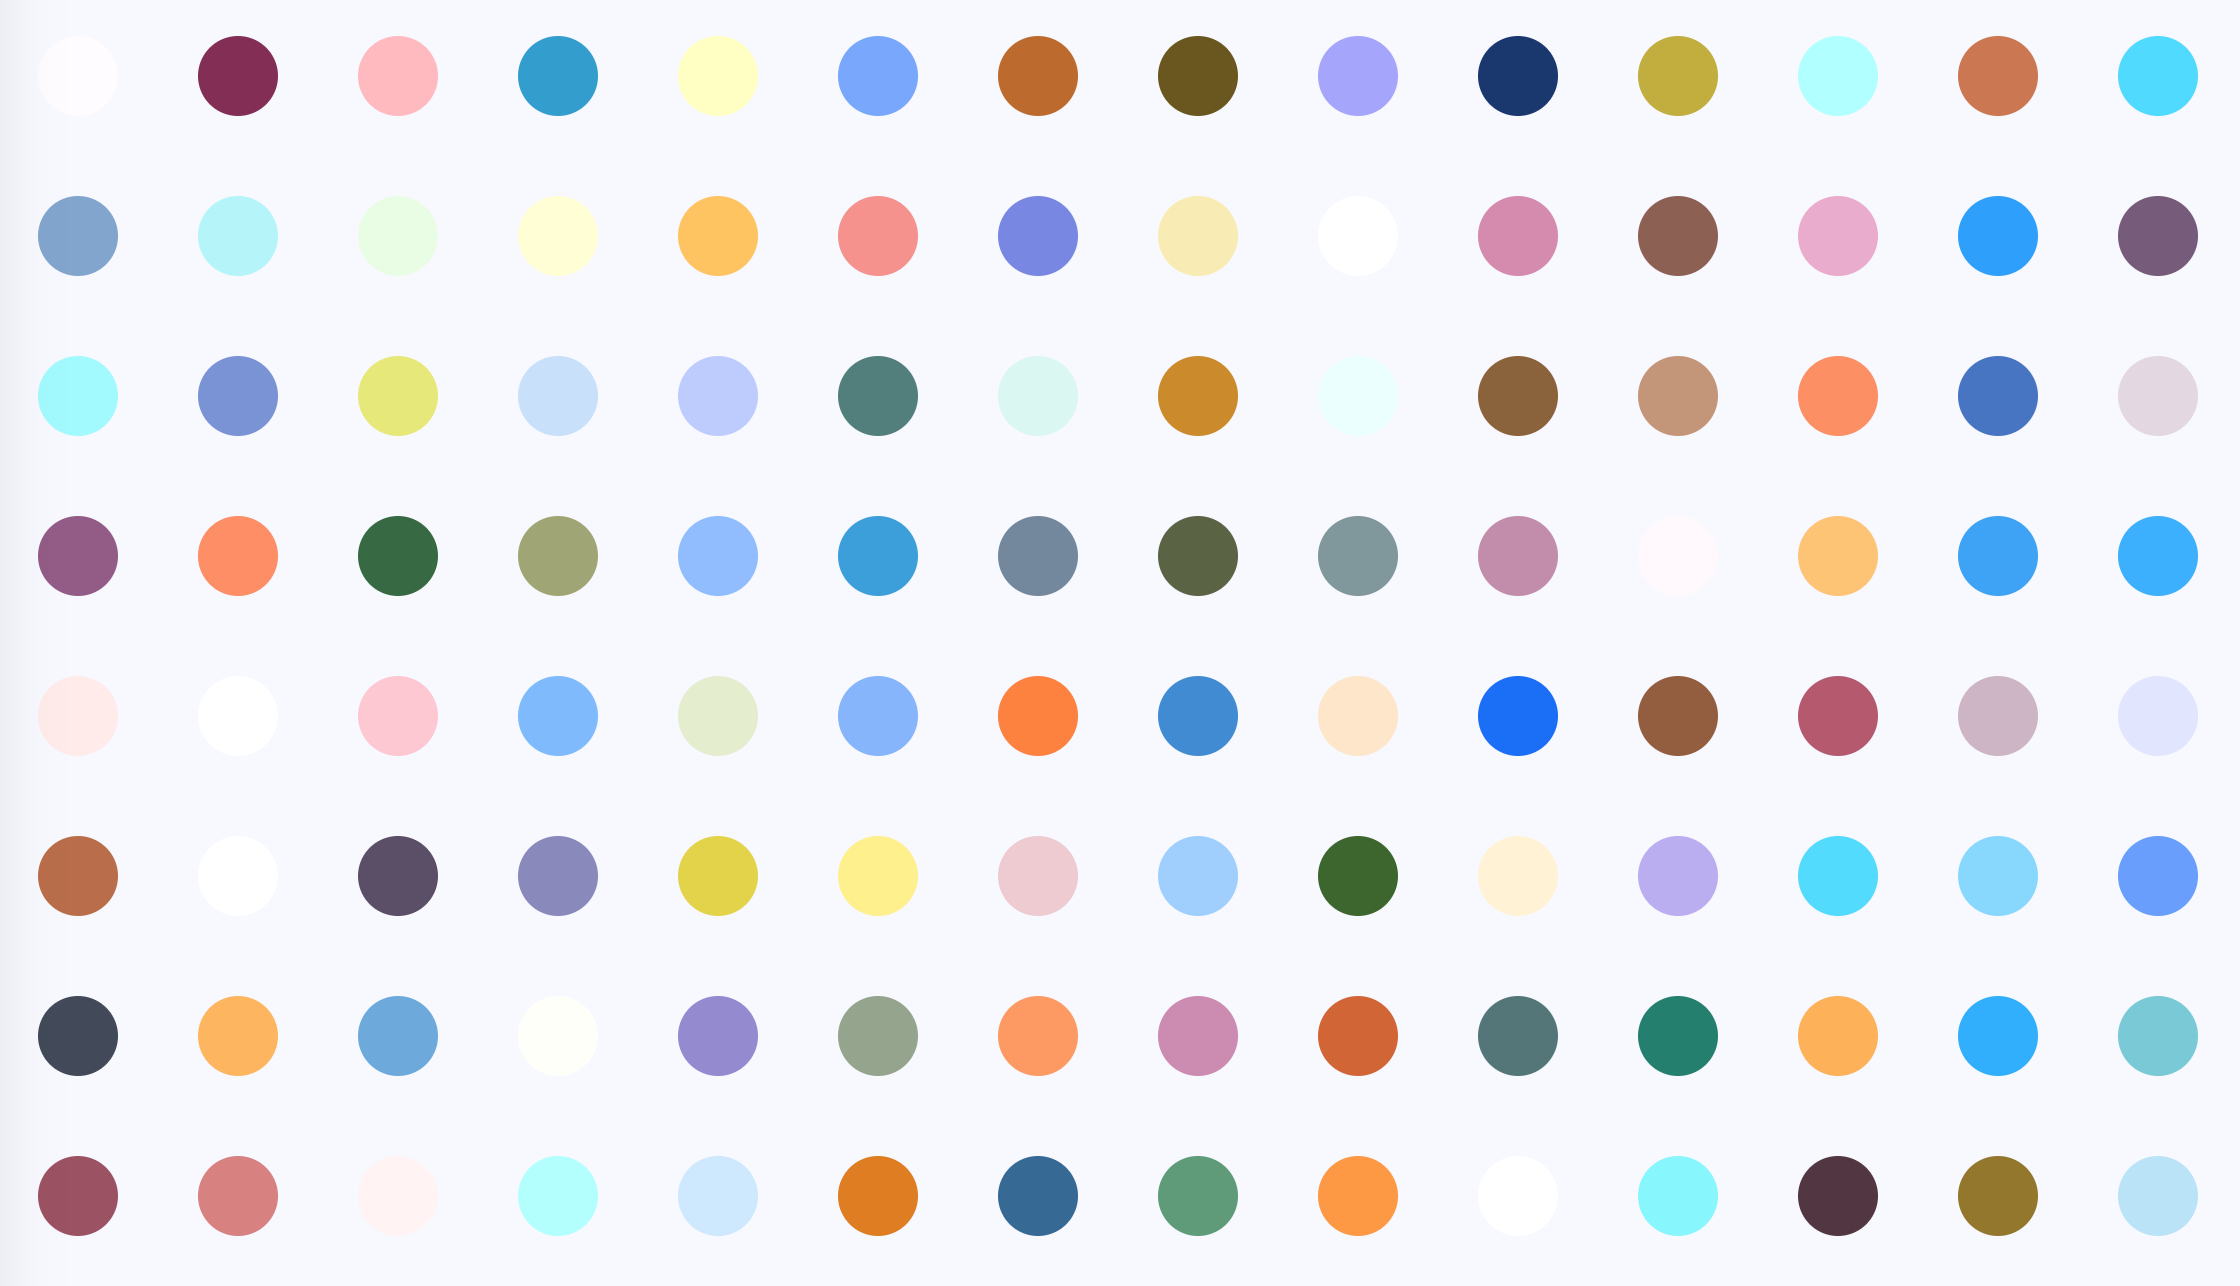
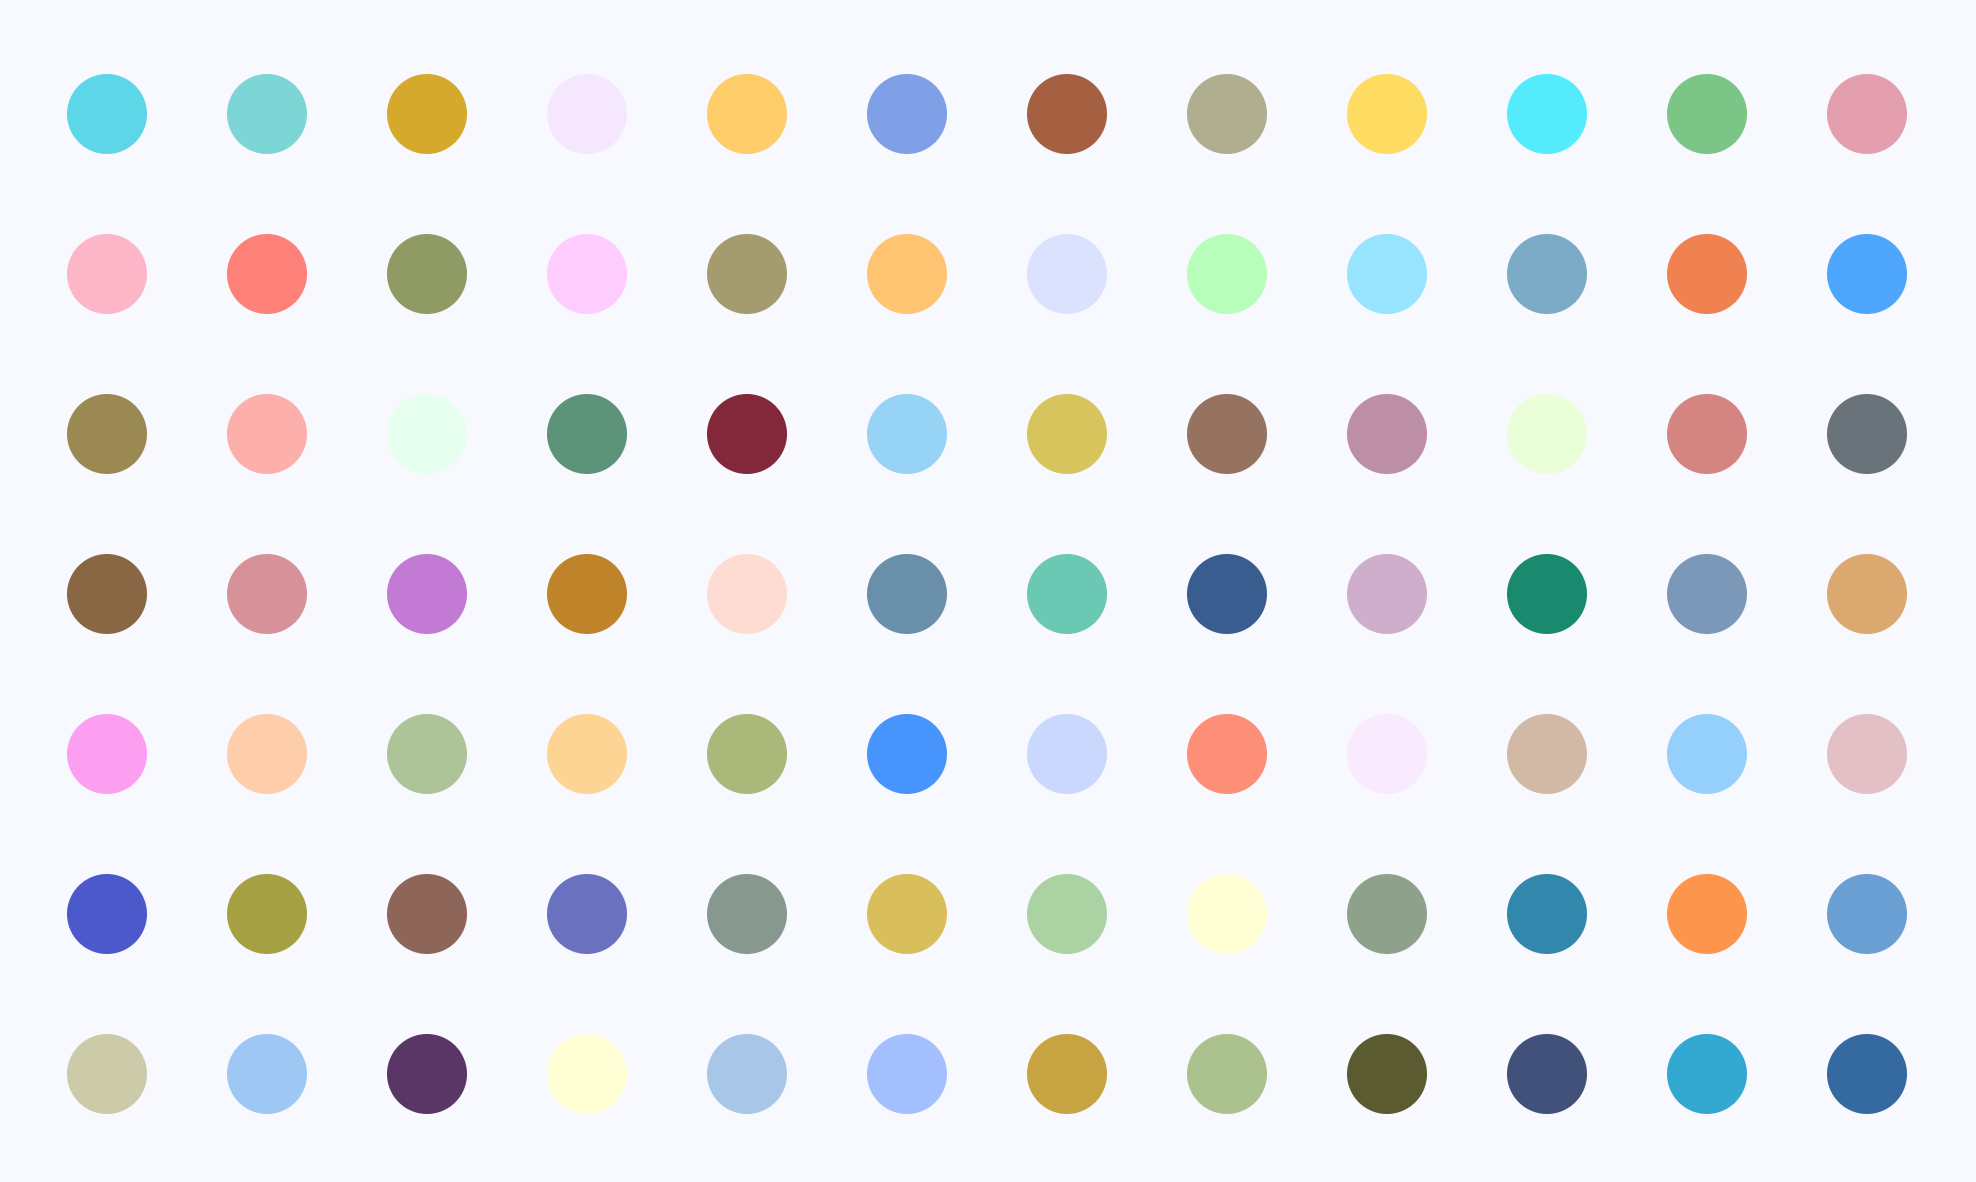
Adjust colors; add title

diff --git a/main.js b/main.js
@@ -13,10 +13,10 @@ function load() {
   for (let i = 0; i < 1000; i++) {
     let spot = document.createElement('div');
     spot.className = 'spot';
-    let red = rand(0, 255);
-    let blue = rand(0, 255);
-    let green = constrain(Math.floor((red + blue) / 2) + rand(0, 100), 0, 255); //from x/3 + y/3 -2z/3 = 0
-    let color_string = `rgb(${constrain(red + rand(0, 100), 0, 255)}, ${green}, ${constrain(blue + rand(0, 100), 0, 255)})`;
+    let red = rand(50, 255);
+    let blue = rand(50, 255);
+    let green = constrain(Math.floor((red + blue) / 2) + rand(-50, 50), 0, 255); //from x/3 + y/3 -2z/3 = 0
+    let color_string = `rgb(${constrain(red + rand(-50, 50), 0, 255)}, ${green}, ${constrain(blue + rand(-50, 50), 0, 255)})`;
     spot.style.backgroundColor = color_string;
     // hue: 0/360 = red, 120 = green, 240 = blue
     // spot.style.backgroundColor = `hsl(${rand(0, 360)}, ${rand(30, 100)}%, ${rand(20, 100)}%)`;

diff --git a/index.html b/index.html
@@ -27,7 +27,12 @@
 </head>
 
 <body>
-  <div id="rows"></div>
+  <div id="rows">
+    <div class="title">Infinite Spots</div>
+    <div class="sub title">Infinite scrolling of generated spot painting, originally by Damien Hirst<br />
+      More details at <a href="http://bit.ly/infinite-spots">http://bit.ly/infinite-spots</a>
+    </div>
+  </div>
 
   <script src="main.js"></script>
 </body>

diff --git a/main.css b/main.css
@@ -18,3 +18,21 @@ body {
   border-radius: 20px;
   display: inline-block;
 }
+
+.title {
+  font-family: 'Courier New', Courier, monospace;
+  position: absolute;
+  background-color: black;
+  color: white;
+  margin: 20px;
+  font-size: 20px;
+  text-align: left;
+}
+.title.sub {
+  font-size: 10px;
+  top: 3em;
+}
+
+a {
+  color: white;
+}

diff --git a/README.md b/README.md
@@ -3,7 +3,7 @@
 Infinite scrolling of generated spot painting, originally by Damien Hirst. According to [Quantixed](http://quantixed.org/2018/03/26/paintballs-coming-home-generating-damien-hirst-spot-paintings/), the color palette of the artist's spots (at least in "Abalone Acetone Powder") looks like a plane in RGB color space, specifically:
 
 ```
-R/3 - 2*G/3 + B/3 = 0
+R - 2*G + B = 0
 ```
 
 In other words, Damien Hirst does not seem to like bright greens (low R and B but high G) or magenta (high R and B but low G). With some fuzziness added, the result looks like this:
